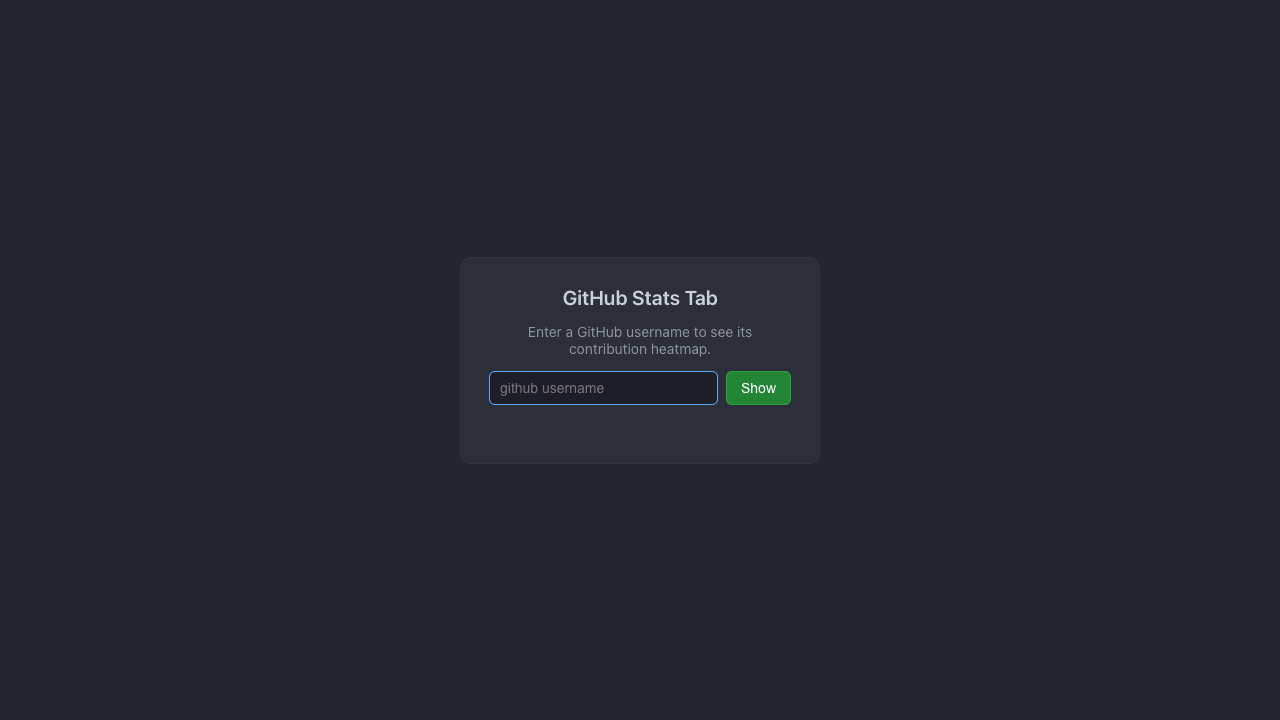
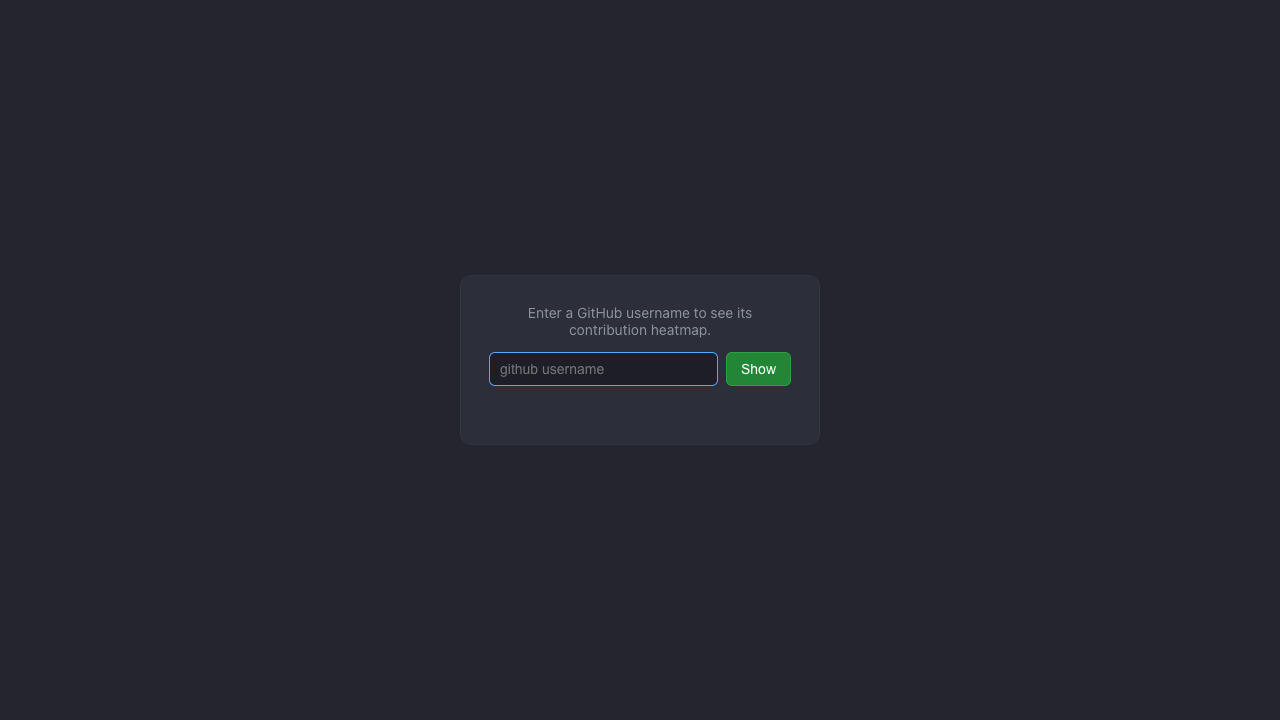
chore: drop the 'GitHub Stats Tab' heading from the setup screen
The only on-page occurrence of the name; the setup card now shows just the prompt + username field. Title heading still used by the error card.

Changed region(s): [[0.375, 0.3972, 0.625, 0.5806]]

diff --git a/e2e/extension.spec.js b/e2e/extension.spec.js
@@ -119,7 +119,7 @@ test('first open with empty storage shows the prompt — no blank screen (regres
   // First and only navigation in a fresh profile (empty storage), NO reload —
   // this is what a real first new-tab open does.
   await page.goto(`chrome-extension://${id}/newtab.html`);
-  await expect(page.locator('.ghs-card-title')).toBeVisible({ timeout: 6000 });
+  await expect(page.locator('.ghs-input')).toBeVisible({ timeout: 6000 });
   expect(errors, errors.join('\n')).toEqual([]);
   await context.close();
 });
@@ -146,8 +146,9 @@ test('empty state prompts for a username', async () => {
   const { context, id } = await launch();
   const page = await openNewtab(context, id, undefined);
 
-  await expect(page.locator('.ghs-card-title')).toHaveText('GitHub Stats Tab');
+  await expect(page.locator('.ghs-card-sub')).toContainText('Enter a GitHub username');
   await expect(page.locator('.ghs-input')).toBeVisible();
+  expect(await page.locator('.ghs-card-title').count()).toBe(0); // heading removed
 
   await page.screenshot({ path: join(SHOTS, '03-empty.png'), fullPage: true });
   await context.close();

diff --git a/src/main.js b/src/main.js
@@ -211,7 +211,6 @@ function renderEmpty() {
     h(
       'div',
       { class: 'ghs-card' },
-      h('h1', { class: 'ghs-card-title' }, 'GitHub Stats Tab'),
       h('p', { class: 'ghs-card-sub' }, 'Enter a GitHub username to see its contribution heatmap.'),
       h('div', { class: 'ghs-settings-row' }, input, h('button', { class: 'ghs-btn ghs-btn--primary', onclick: save }, 'Show')),
       error,